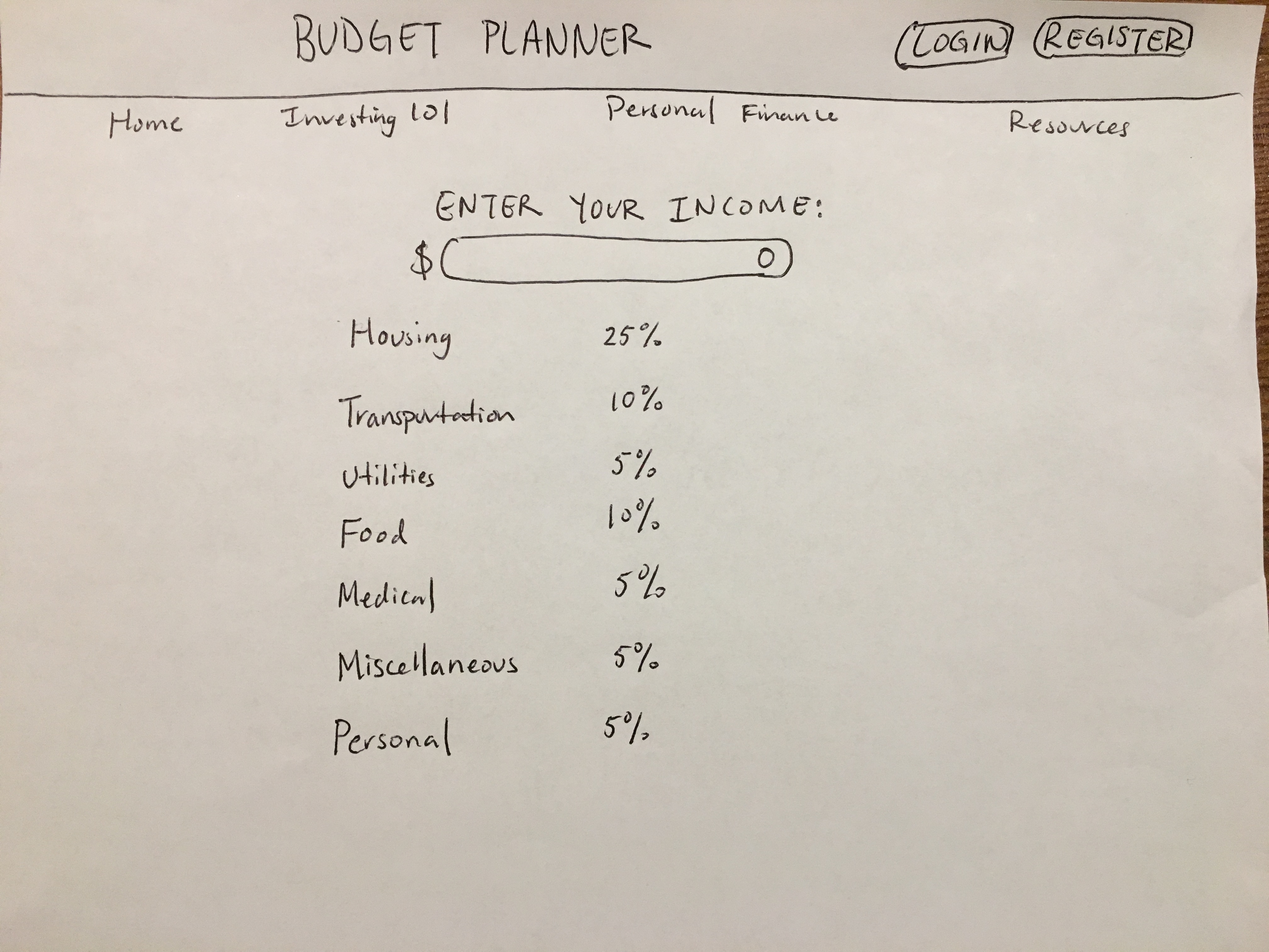
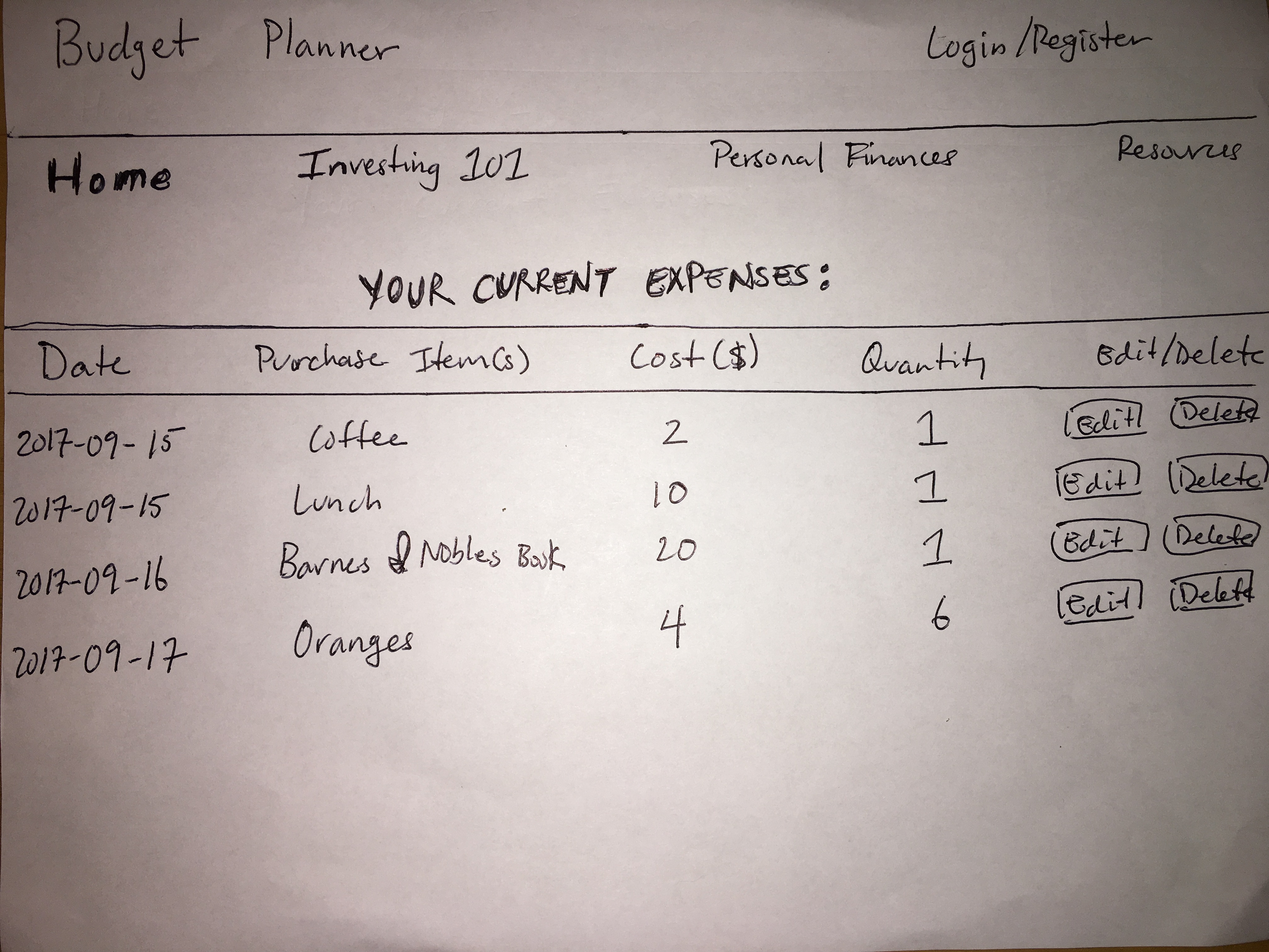
update readme & wireframes

diff --git a/README.md b/README.md
@@ -3,11 +3,12 @@
 
 ## What is Budget Planner?
 
-Budget Planner is a financial calculator that calculates your monthly budget base on your yearly income. Budget Planner gives users an estimated monthly budget on how much an individual should be spending on housing, transportation, utilities, food, medical, miscellaneous, and personal expenses.
+Budget Planner is an web application that allows users to record their daily expenses. The idea behind this concept is that if users have to record their expenses, they will become more aware of their spending habits. Budger Planner also provides resources and insights into millennial investing. 
+
 
 ## Inspiration Behind Budget Planner 
 
-When I was in my teenage years, I attended a business high school that taught classes such as accounting, investing, personal finance, and saving. After finishing high school, I went on to pursue my bachelors in business. While a student in college, I realized that many of my peers had never taken a course relating to personal finance and did not consider themselves financially saavy. With this app, I wanted to create a report that allows users to track their expenses. Budger Planner will also provide useful information and resources on personal finance for millennials.
+When I was in my teenage years, I attended a business high school that taught classes relating to accounting, investing, financial markets, and personal finance. After finishing high school, I went on to pursue my bachelors in business. While a student at Skidmore College, I realized that many of my peers had never taken a course relating to personal finance and did not consider themselves financially saavy. With this app, I wanted to create a report that allows users to track their expenses. Budget Planner will also provide useful information and resources on personal finance for millennials.
 
 ## Technical Discussion
 
@@ -22,16 +23,20 @@ When I was in my teenage years, I attended a business high school that taught cl
 
 ```
 
-## Proposal- User Story/Wireframes
+## Proposal - User Story/Wireframes
 
 [Proposal](https://github.com/dennisluo1/Budget_Planner/blob/master/proposal.md)
 
 ## The Making of Budget Planner
 
 Credits: 
-[How to Add React to a Ruby on Rails Application](https://www.youtube.com/watch?v=pVHEPf7S88I)
-[Beginner Rails 5 With ReactJS Tutorial](https://www.youtube.com/watch?v=PIel9V6JImc&t=8s)
-
+* [Inspiration from App](https://www.mint.com/)
+* [3 ways to use React with Ruby on Rails 5](https://learnetto.com/blog/3-ways-to-use-react-with-ruby-on-rails-5)
+* [Building a CRUD interface with React and Ruby on Rails](https://www.pluralsight.com/guides/ruby-ruby-on-rails/building-a-crud-interface-with-react-and-ruby-on-rails)
+* [How to Add React to a Ruby on Rails Application](https://www.youtube.com/watch?v=pVHEPf7S88I)
+* [Beginner Rails 5 With ReactJS Tutorial](https://www.youtube.com/watch?v=PIel9V6JImc&t=8s)
 
 ## Opportunities for Future Growth
-The next step of budget planner is to incorporate a budget calculator that will allow users to input their income and receive an estimate of how much they should be saving per month and year on expenses such as: rent, transportation, utilities, food, medical, and personal.  
+The next step of budget planner is to incorporate a budget calculator that will allow users to input their income and receive an estimate of how much they should be saving per month and year on expenses such as: rent, transportation, utilities, food, medical, and personal.    
+
+In addition, it will be incredibly important to set up an login/authentication to store users expenses into their personal account. Users will be able to not only store their expense history but also information regarding a budget calculation of their income history. 

diff --git a/proposal.md b/proposal.md
@@ -2,12 +2,15 @@
 
 ## What is Budget Planner?
 
-Budget Planner is a financial calculator that calculates your monthly budget base on your yearly income. Budget Planner gives users an estimated monthly budget on how much an individual should be spending on housing, transportation, utilities, food, medical, miscellaneous, and personal expenses.
+Budget Planner is an web application that allows users to record their daily expenses. The idea behind this concept is that if users have to record their expenses, they will become more aware of their spending habits. Budger Planner also provides resources and insights into millennial investing. 
 
 
 ## Wireframe
 
+Current Web App Content: 
 ![](./wireframes/wireframe1.jpg)
+
+Stretch Goal: 
 ![](./wireframes/wireframe2.jpg)
 
 
@@ -21,7 +24,7 @@ In addition, the user will have access to resources such as access to basic inve
 ## Phases of Completion
 
 ### Phase 0 
-- Initial setup
+- Initial setup of app
     - Create all necessary files and folders.
 
 ### Phase 1
@@ -33,13 +36,17 @@ In addition, the user will have access to resources such as access to basic inve
     - Set up front-end, possibly auth
 
 ### Phase 3
-- Create functions to calculate yearly budget expenses
+- Set up CRUD
 
 ### Phase 4 
-- Create functions to calculate monthly budget expenses
+- Set up layout of app
+    -Work on other tabs of the app
 
 ### Phase 5
 - Style app
+
+### Phase 6 
+- Host app
 
 ## Challenges 
 
@@ -47,3 +54,7 @@ A big challenge will be creating the necessary functions to calculate monthly an
 
 
 ## Links and Resources
+
+* [How to Add React to a Ruby on Rails Application](https://www.youtube.com/watch?v=pVHEPf7S88I)
+* [Beginner Rails 5 With ReactJS Tutorial](https://www.youtube.com/watch?v=PIel9V6JImc&t=8s)
+* [Codecademy: Learn Ruby](http://www.builtinnyc.com/job/junior-developer-0)
